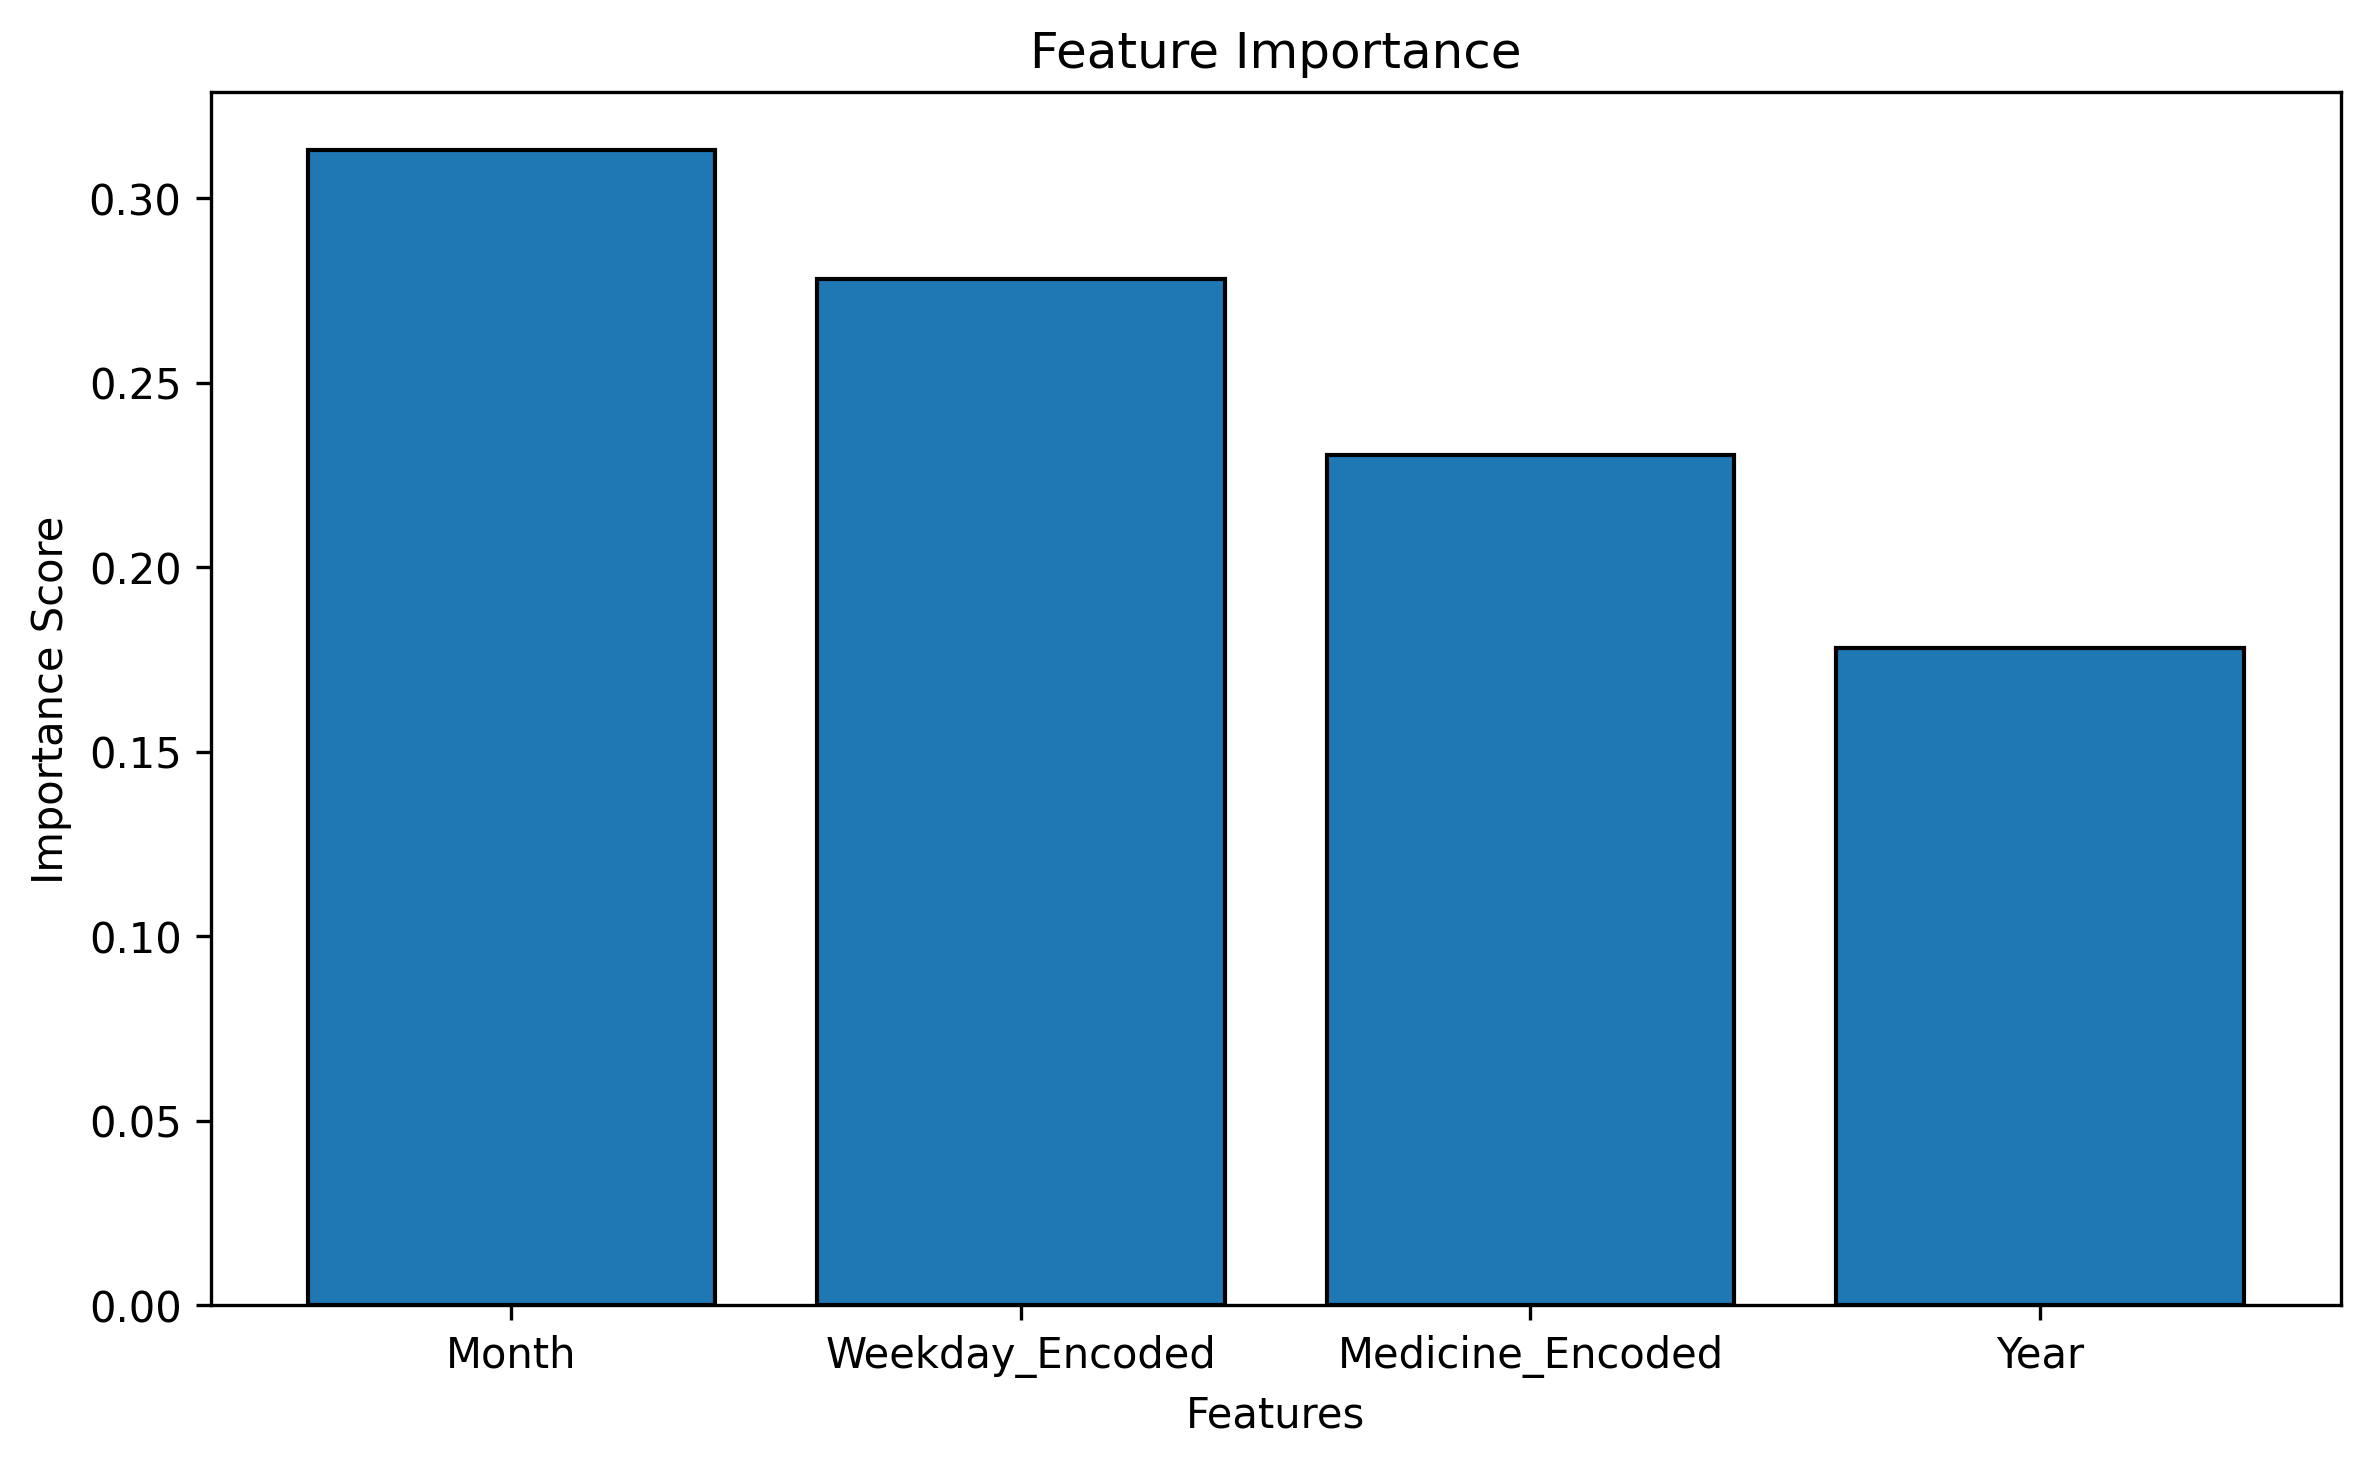
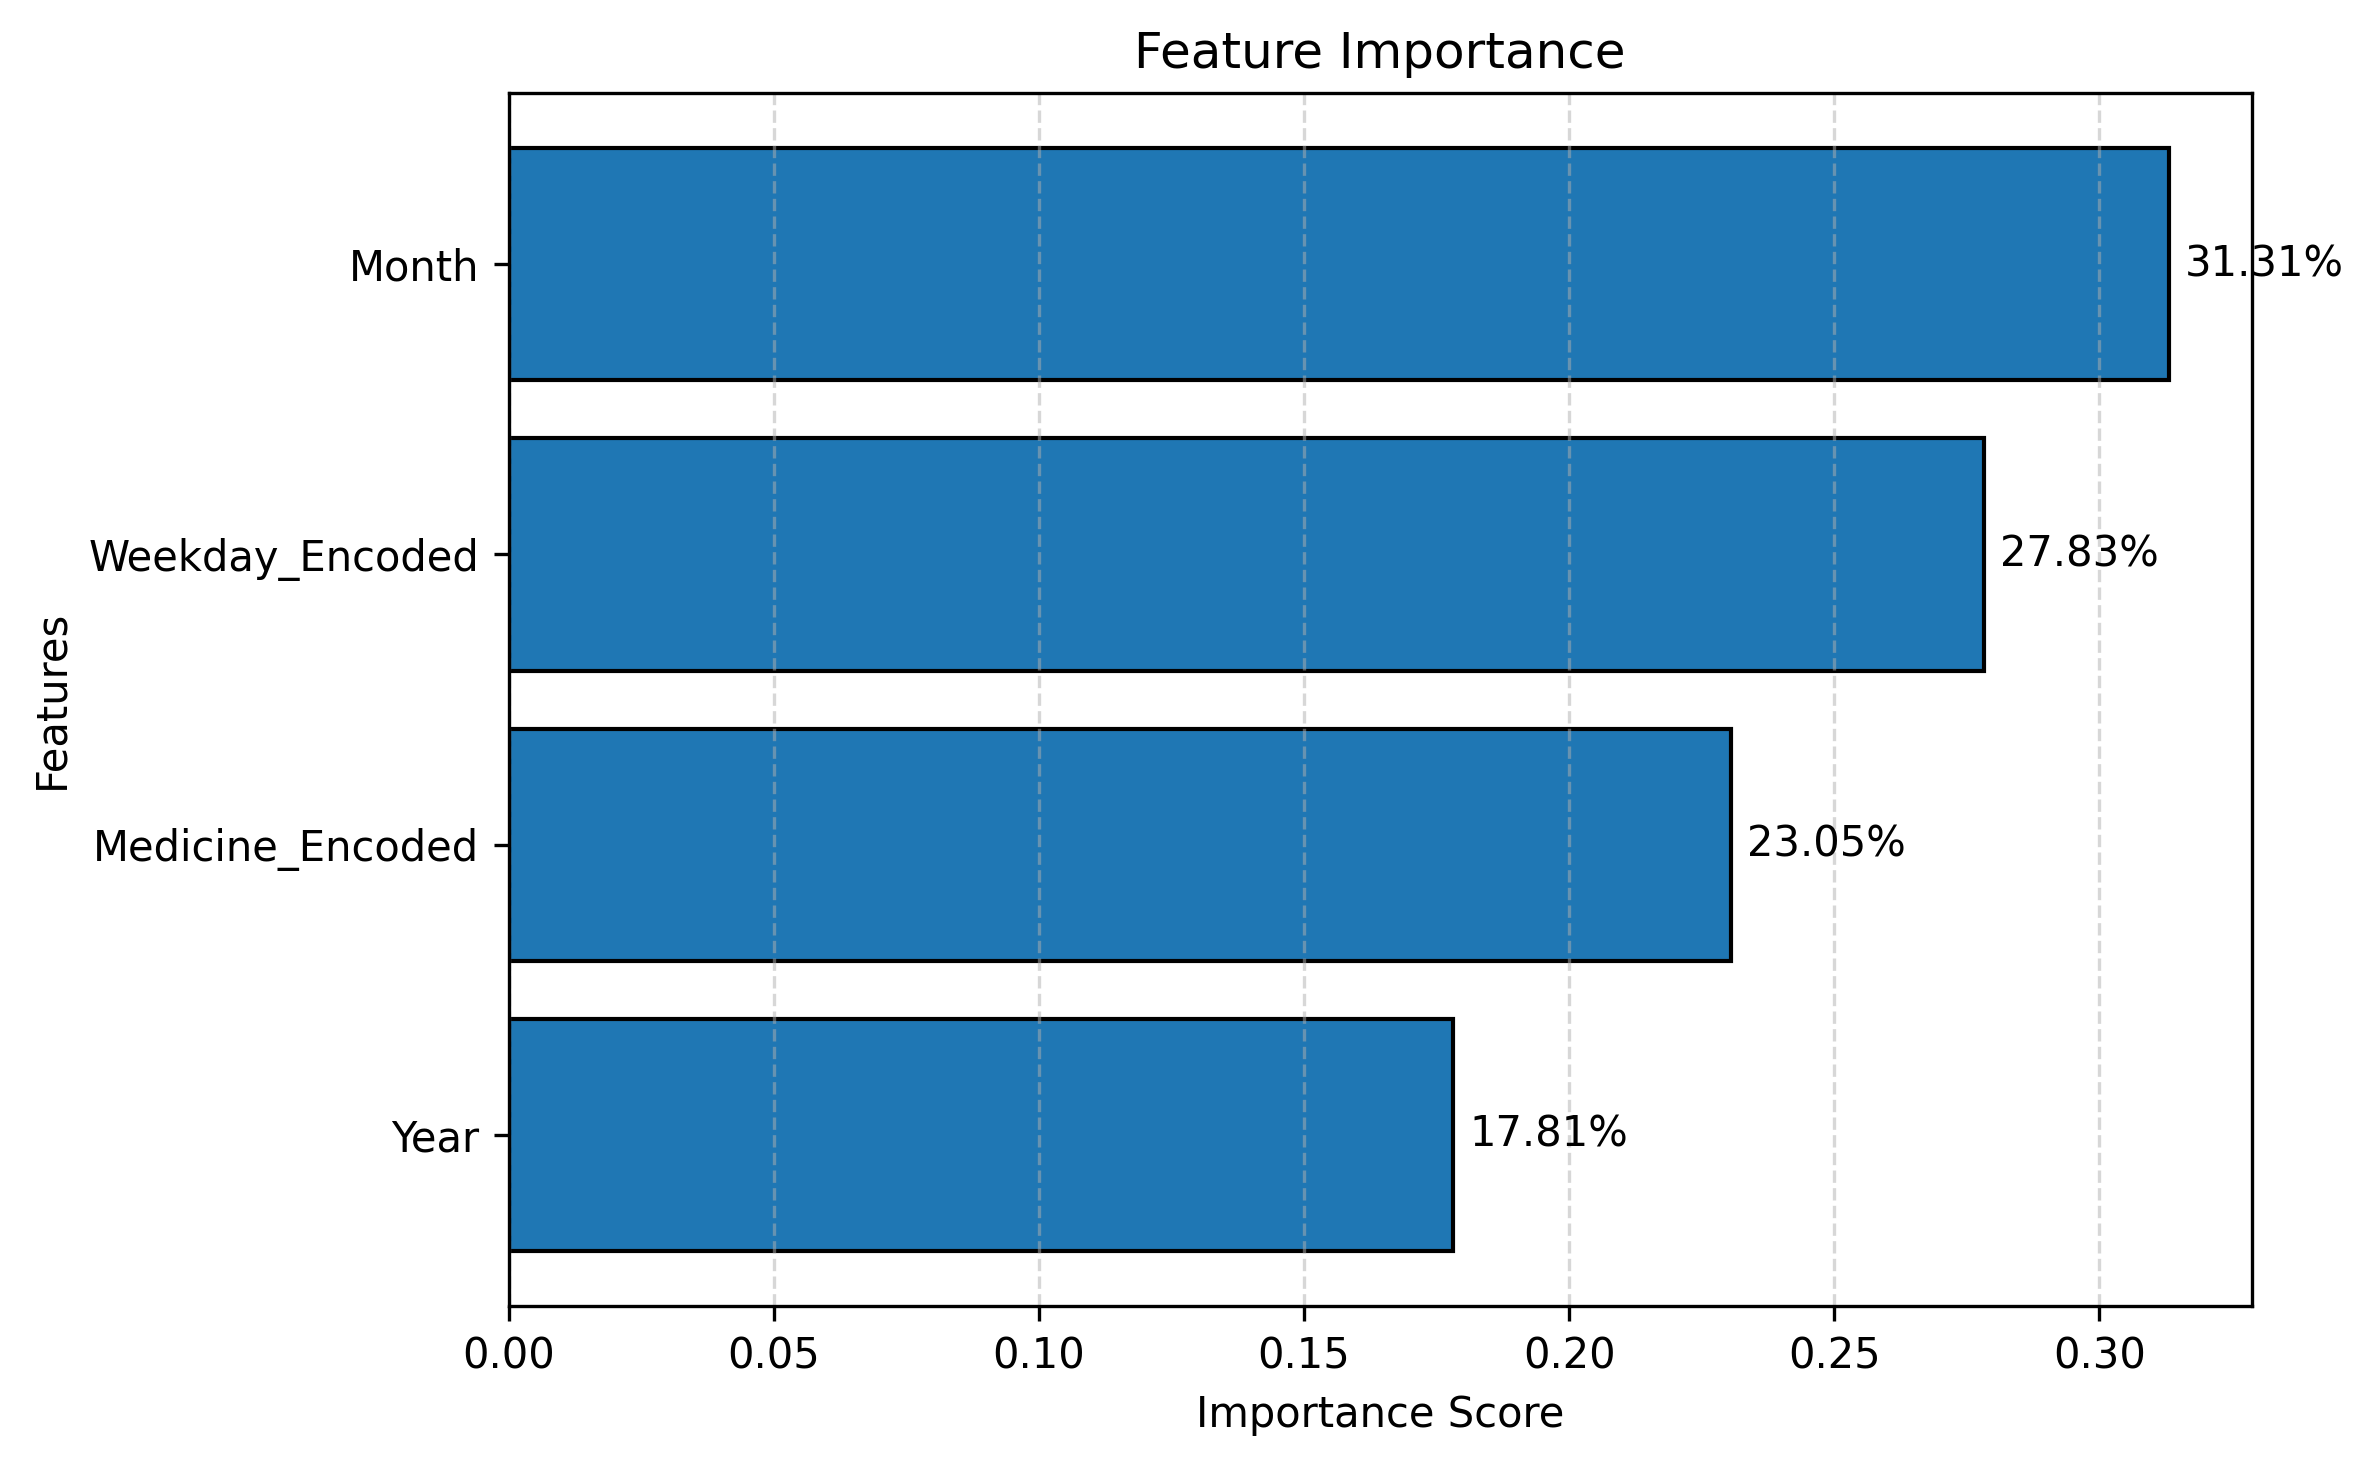
new image of feature importance

diff --git a/notebooks/09_final_model_evaluation.py b/notebooks/09_final_model_evaluation.py
@@ -13,10 +13,10 @@ from sklearn.metrics import (
 )
 
 # =====================================================
-# STEP 09: FINAL MODEL EVALUATION
+# STEP 09 : FINAL MODEL EVALUATION
 # =====================================================
 
-# 1. Loading the dataset from Step 06
+# 1. Loading the dataset
 input_path = r"C:\Users\L E N O V O\Desktop\Pharmacy_Inventory_AI\data\processed\pharmacy_training_dataset.csv"
 
 if not os.path.exists(input_path):
@@ -48,7 +48,7 @@ print("============================================================")
 print("FINAL MODEL EVALUATION")
 print("============================================================")
 
-# 4. Training the final Random Forest model
+# 4. Training the final model
 model = RandomForestClassifier(
     n_estimators=50,
     random_state=42
@@ -56,11 +56,11 @@ model = RandomForestClassifier(
 
 model.fit(X_train, y_train)
 
-# 5. Saving the final model
+# 5. Saving the trained model
 model_path = r"C:\Users\L E N O V O\Desktop\Pharmacy_Inventory_AI\models\pharmacy_rf_model.pkl"
 joblib.dump(model, model_path)
 
-# 6. Predicting the testing dataset
+# 6. Predicting the testing data
 y_pred = model.predict(X_test)
 
 # 7. Calculating model accuracy
@@ -68,17 +68,17 @@ accuracy = accuracy_score(y_test, y_pred)
 
 print(f"\nAccuracy : {accuracy:.2%}\n")
 
-# 8. Displaying the classification report
+# 8. Displaying classification report
 print("Classification Report")
 print(classification_report(y_test, y_pred))
 
-# 9. Creating the confusion matrix
+# 9. Creating confusion matrix
 cm = confusion_matrix(y_test, y_pred)
 
 print("Confusion Matrix")
 print(cm)
 
-# 10. Displaying the confusion matrix
+# 10. Plotting confusion matrix
 disp = ConfusionMatrixDisplay(
     confusion_matrix=cm,
     display_labels=["Low", "Normal", "High"]
@@ -87,20 +87,22 @@ disp = ConfusionMatrixDisplay(
 disp.plot(cmap="Blues")
 plt.title("Confusion Matrix")
 
-# 11. Saving the confusion matrix image
-output_path = r"C:\Users\L E N O V O\Desktop\Pharmacy_Inventory_AI\report\figures\confusion_matrix.png"
+# Save confusion matrix
+confusion_path = r"C:\Users\L E N O V O\Desktop\Pharmacy_Inventory_AI\report\figures\confusion_matrix.png"
 
-plt.savefig(output_path, dpi=300, bbox_inches="tight")
+plt.savefig(
+    confusion_path,
+    dpi=300,
+    bbox_inches="tight"
+)
 
 plt.show()
 
-print(f"\nConfusion Matrix image saved to:\n{output_path}")
+print(f"\nConfusion Matrix saved to:\n{confusion_path}")
 
-print("\n============================================================")
-print("STEP 09 COMPLETED SUCCESSFULLY")
-print("============================================================")
-
-# 12. Finding feature importance
+# =====================================================
+# FEATURE IMPORTANCE
+# =====================================================
 
 importance = model.feature_importances_
 
@@ -114,35 +116,55 @@ importance_df = importance_df.sort_values(
     ascending=False
 )
 
-print("\nFeature Importance")
+print("\n============================================================")
+print("FEATURE IMPORTANCE")
+print("============================================================")
 print(importance_df)
 
-# 13. Creating the feature importance chart
-
+# Create feature importance graph
 plt.figure(figsize=(8,5))
 
-plt.bar(
+bars = plt.barh(
     importance_df["Feature"],
     importance_df["Importance"],
     edgecolor="black"
 )
 
+plt.gca().invert_yaxis()
+
+# Display percentages
+for bar in bars:
+
+    width = bar.get_width()
+
+    plt.text(
+        width + 0.003,
+        bar.get_y() + bar.get_height()/2,
+        f"{width*100:.2f}%",
+        va="center"
+    )
+
 plt.title("Feature Importance")
-plt.xlabel("Features")
-plt.ylabel("Importance Score")
+plt.xlabel("Importance Score")
+plt.ylabel("Features")
+
+plt.grid(axis="x", linestyle="--", alpha=0.5)
 
 plt.tight_layout()
 
-# 14. Saving the feature importance image
-
-feature_output_path = r"C:\Users\L E N O V O\Desktop\Pharmacy_Inventory_AI\report\figures\feature_importance.png"
+# Save feature importance
+feature_path = r"C:\Users\L E N O V O\Desktop\Pharmacy_Inventory_AI\report\figures\feature_importance.png"
 
 plt.savefig(
-    feature_output_path,
+    feature_path,
     dpi=300,
     bbox_inches="tight"
 )
 
 plt.show()
 
-print(f"\nFeature Importance image saved to:\n{feature_output_path}")
+print(f"\nFeature Importance saved to:\n{feature_path}")
+
+print("\n============================================================")
+print("STEP 09 COMPLETED SUCCESSFULLY")
+print("============================================================")

diff --git a/src/predict.py b/src/predict.py
@@ -1,0 +1,63 @@
+import joblib
+import os
+
+# =====================================================
+# Loading the trained Random Forest model
+# =====================================================
+
+model_path = r"C:\Users\L E N O V O\Desktop\Pharmacy_Inventory_AI\models\pharmacy_rf_model.pkl"
+
+if not os.path.exists(model_path):
+    raise FileNotFoundError(f"Could not find {model_path}")
+
+model = joblib.load(model_path)
+
+# =====================================================
+# Encoding dictionaries
+# =====================================================
+
+medicine_map = {
+    "M01AB": 0,
+    "M01AE": 1,
+    "N02BA": 2,
+    "N02BE": 3,
+    "N05B": 4,
+    "N05C": 5,
+    "R03": 6,
+    "R06": 7
+}
+
+weekday_map = {
+    "Sunday": 0,
+    "Monday": 1,
+    "Tuesday": 2,
+    "Wednesday": 3,
+    "Thursday": 4,
+    "Friday": 5,
+    "Saturday": 6
+}
+
+# =====================================================
+# Predicting the demand
+# =====================================================
+
+def predict_demand(medicine, year, month, weekday):
+
+    medicine_encoded = medicine_map[medicine]
+    weekday_encoded = weekday_map[weekday]
+
+    prediction = model.predict([[
+        medicine_encoded,
+        year,
+        month,
+        weekday_encoded
+    ]])[0]
+
+    if prediction == 0:
+        return "Low Demand"
+
+    elif prediction == 1:
+        return "Normal Demand"
+
+    else:
+        return "High Demand"